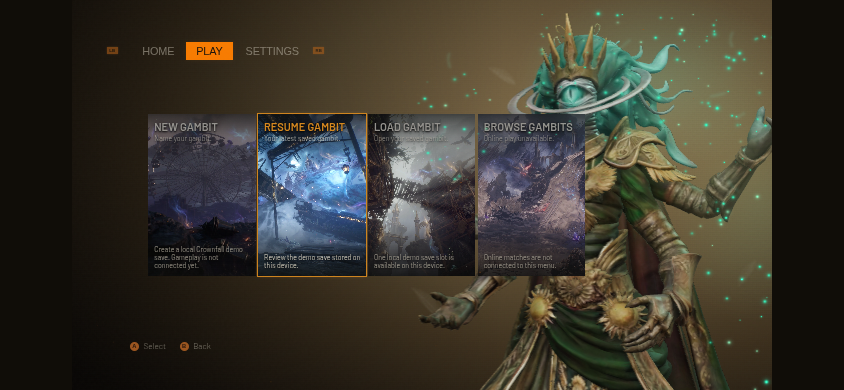
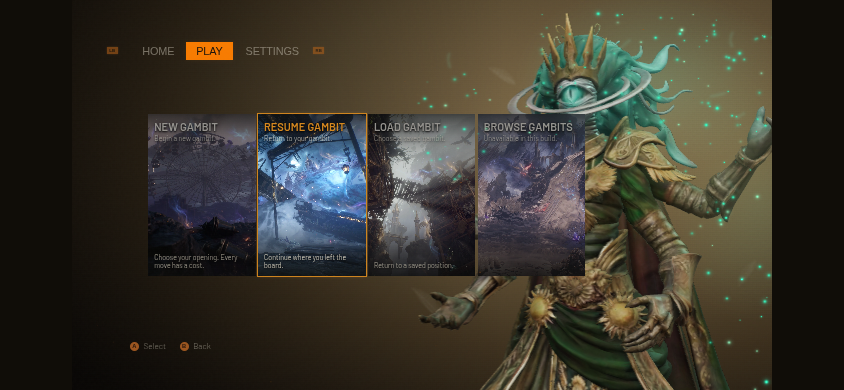
style(ui): polish player-facing Gambit card copy

diff --git a/main game/src/App.tsx b/main game/src/App.tsx
@@ -28,32 +28,29 @@ const cards = [
     id: "new",
     title: "NEW GAMBIT",
     label: "New Gambit",
-    subtitle: "Name your gambit.",
-    description:
-      "Create a local Crownfall demo save. Gameplay is not connected yet.",
+    subtitle: "Begin a new gambit.",
+    description: "Choose your opening. Every move has a cost.",
   },
   {
     id: "resume",
     title: "RESUME GAMBIT",
     label: "Resume Gambit",
-    subtitle: "Your latest saved gambit.",
-    description:
-      "Review the demo save stored on this device.",
+    subtitle: "Return to your gambit.",
+    description: "Continue where you left the board.",
   },
   {
     id: "load",
     title: "LOAD GAMBIT",
     label: "Load Gambit",
-    subtitle: "Open your saved gambit.",
-    description:
-      "One local demo save slot is available on this device.",
+    subtitle: "Choose a saved gambit.",
+    description: "Return to a saved position.",
   },
   {
     id: "browse",
     title: "BROWSE GAMBITS",
     label: "Browse Gambits",
-    subtitle: "Online play unavailable.",
-    description: "Online matches are not connected to this menu.",
+    subtitle: "Unavailable in this build.",
+    description: "",
   },
 ] as const;
 const tabs: { label: string; panel: Panel; aria: string }[] = [
@@ -428,7 +425,10 @@ export default function App() {
             {panel === "load" && (
               <>
                 <h1 id="dialog-heading">Load Gambit</h1>
-                <p>One demo save slot, stored on this device.</p>
+                <p>
+                  One local demo save slot. Chess positions cannot be restored
+                  in this preview.
+                </p>
                 {save ? (
                   <button
                     className="save-slot save-button"

diff --git a/main game/README.md b/main game/README.md
@@ -24,7 +24,7 @@ The four cards use the user's supplied JPEGs in attachment order. The originals 
 
 All four source images are 2048 × 1143. Delivery copies retain those dimensions and are stored at `public/assets/environments/card-{new,resume,load,browse}.webp`. The images are cropped by CSS to their focal points; no regenerated artwork is substituted. `artifacts/card-artwork.json` records the mapping, source/delivery checksums and focal positions. Library identifiers and the private Page references remain in the executor-local originals' provenance file rather than the public repository.
 
-All four cards (New Gambit / Resume Gambit / Load Gambit / Browse Gambits) are visible together in one fixed row. Original card dimensions are restored to 197 × 298 pixels at 1280 × 720, with four-pixel gaps and an 800-pixel row. Titles and supporting text remain live HTML above the image layer. Headings use self-hosted Barlow at weight 600: about 18.67px at 1280px, 14px at 960px, with an 11px landscape floor. Selected titles share the amber border accent; inactive titles use muted gray. The typography reference was inspected from the supplied image and preserved outside Git. Exact UI copy and typography evidence are in `artifacts/menu-copy.json` and `artifacts/card-typography.json`. The row has no carousel controls, scroll snapping, drag or wheel handlers. Keyboard and controller navigation move focus between the four cards without scrolling.
+All four cards (New Gambit / Resume Gambit / Load Gambit / Browse Gambits) are visible together in one fixed row. Original card dimensions are restored to 197 × 298 pixels at 1280 × 720, with four-pixel gaps and an 800-pixel row. Titles and supporting text remain live HTML above the image layer. Headings use self-hosted Barlow at weight 600: about 18.67px at 1280px, 14px at 960px, with an 11px landscape floor. Selected titles share the amber border accent; inactive titles use muted gray. The typography reference was inspected from the supplied image and preserved outside Git. Cards describe the intended Crownfall destinations; activation dialogs disclose that this preview only manages demo saves and does not launch or restore chess gameplay. Exact UI copy and typography evidence are in `artifacts/menu-copy.json` and `artifacts/card-typography.json`. The row has no carousel controls, scroll snapping, drag or wheel handlers. Keyboard and controller navigation move focus between the four cards without scrolling.
 
 ## Creature asset
 
